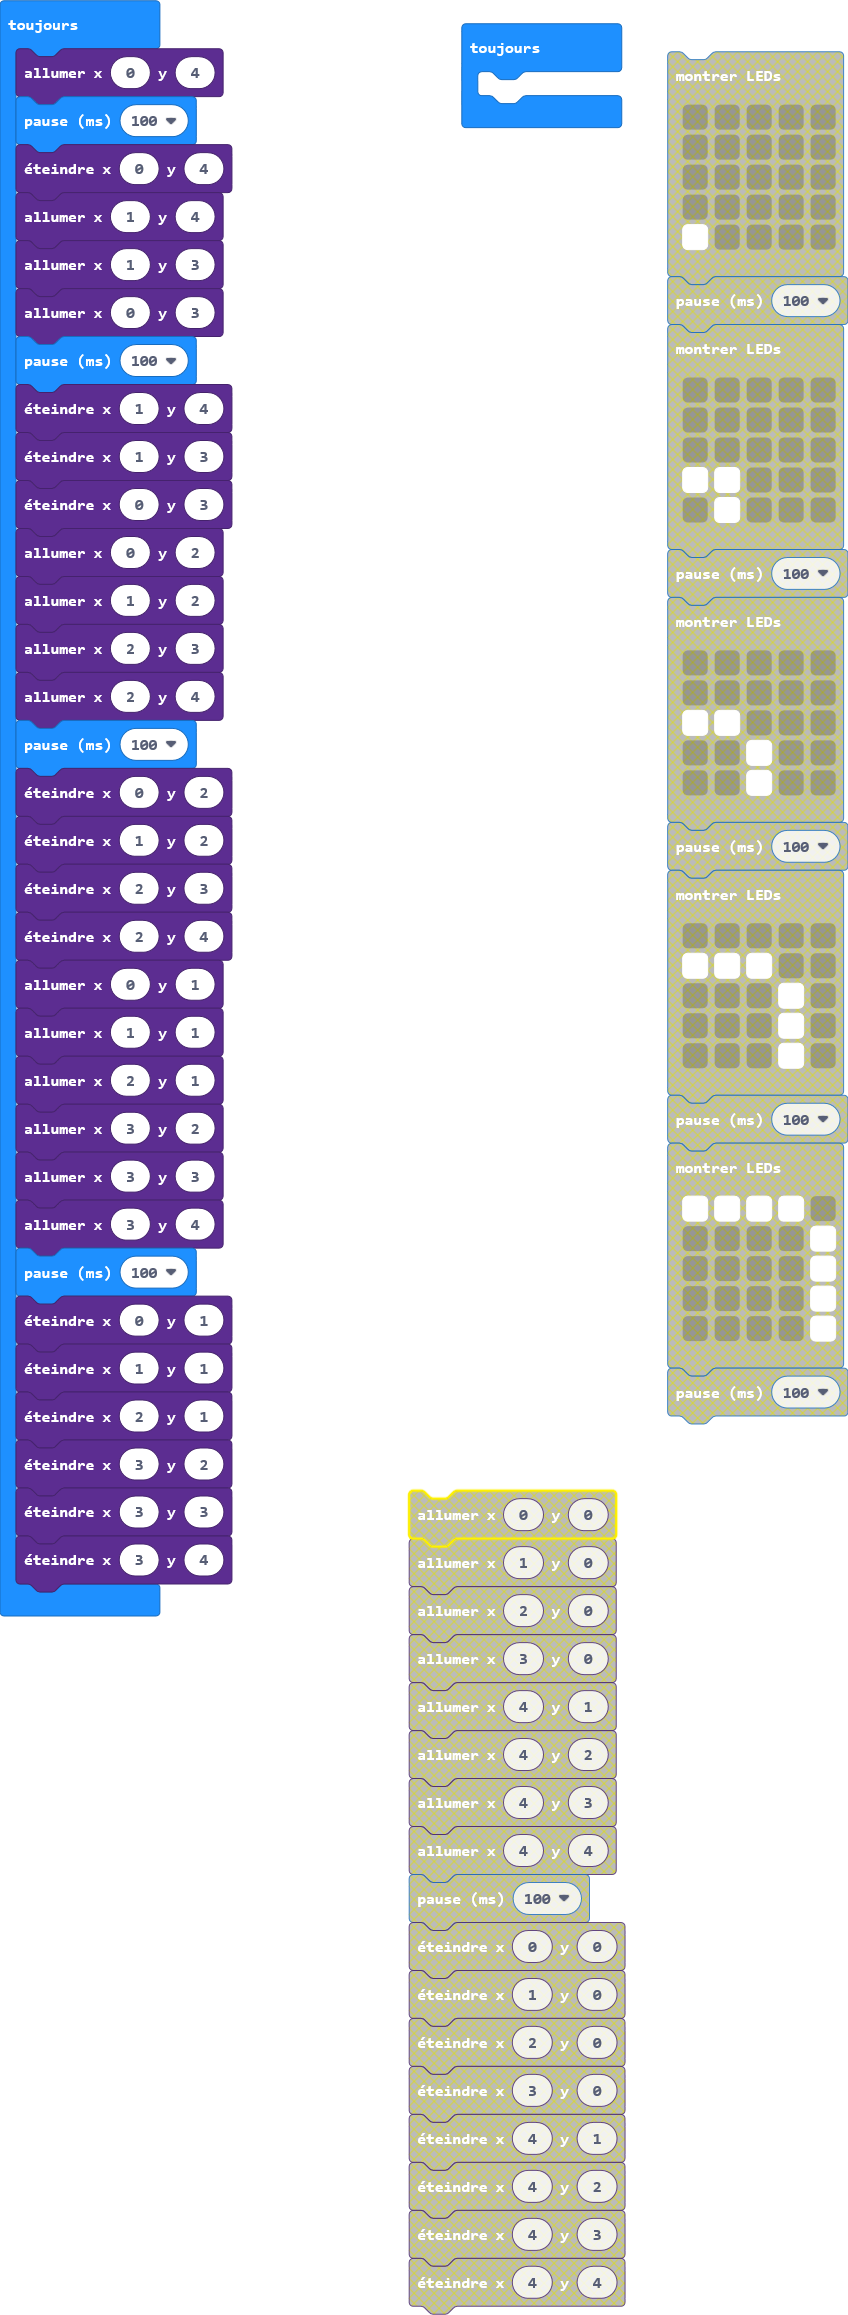
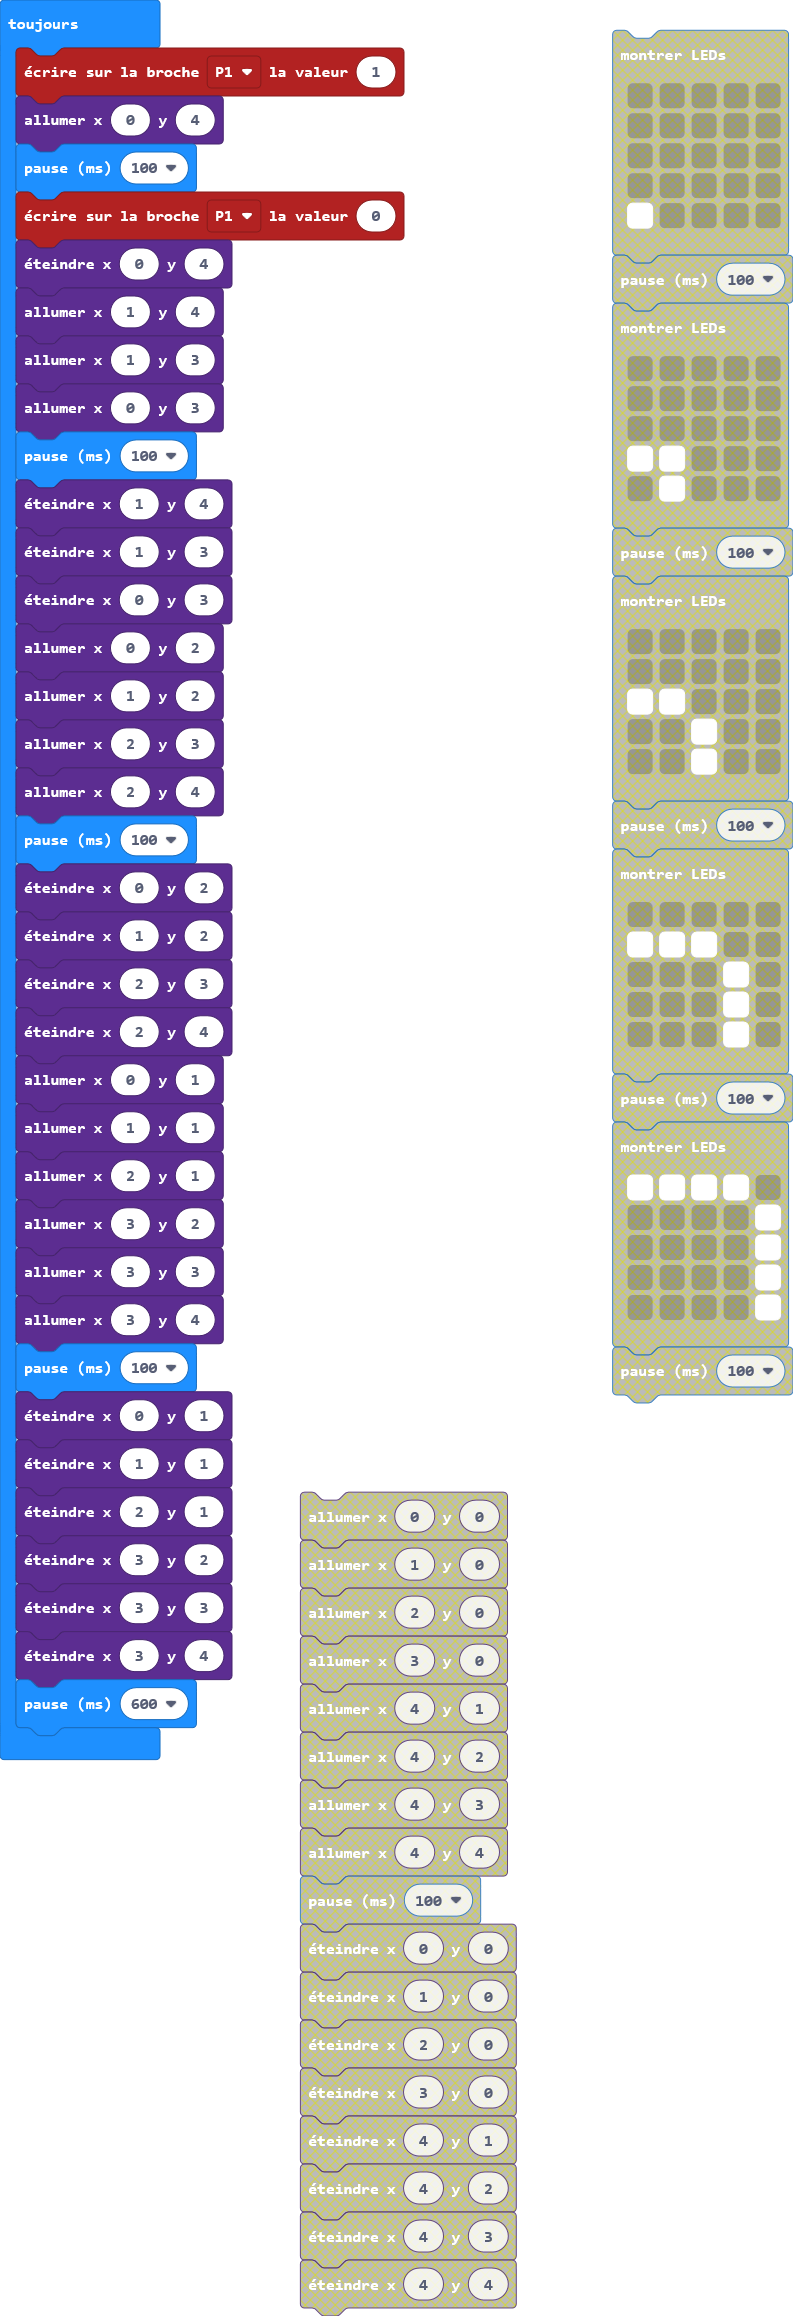
Mise à jour pxt.json, main.blocks, main.ts, main.py

diff --git a/main.py b/main.py
@@ -1,8 +1,12 @@
-basic.forever(function () {
-    pins.digitalWritePin(DigitalPin.P1, 1)
+def on_forever():
+    pins.digital_write_pin(DigitalPin.P1, 1)
     led.plot(0, 4)
     basic.pause(100)
-    pins.digitalWritePin(DigitalPin.P1, 0)
+    pins.digital_write_pin(DigitalPin.P1, 0)
+    led.unplot(0, 4)
+    basic.pause(900)
+    led.plot(0, 4)
+    basic.pause(100)
     led.unplot(0, 4)
     led.plot(1, 4)
     led.plot(1, 3)
@@ -34,4 +38,8 @@ basic.forever(function () {
     led.unplot(3, 3)
     led.unplot(3, 4)
     basic.pause(600)
-})
+basic.forever(on_forever)
+
+def on_forever2():
+    pass
+basic.forever(on_forever2)
